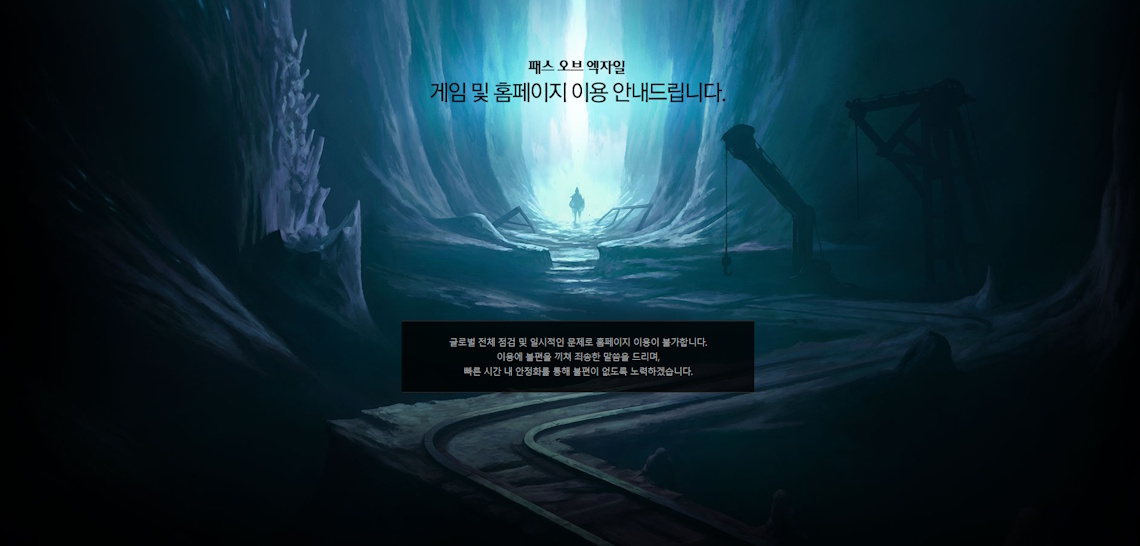
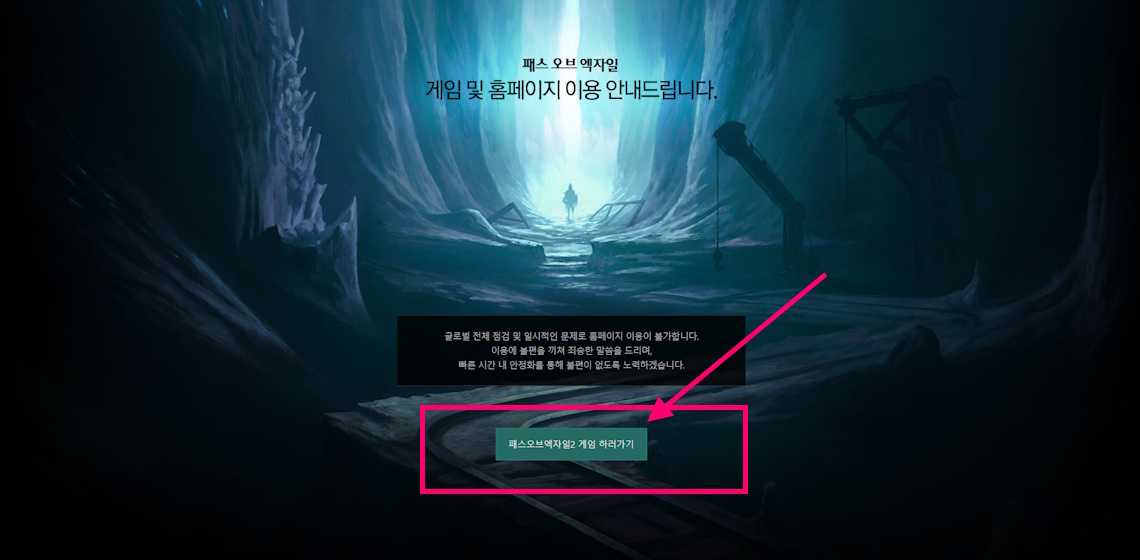
poe2 게임 시작 2
poe2 게임 시작 2

diff --git a/blog/help/search/index.html b/blog/help/search/index.html
@@ -2255,7 +2255,7 @@
 						"id": "\/blog\/game\/pc\/poe\/poe2-early-access-how-to-game-start\/",
 						"title": "[POE2] 패스 오브 엑자일2 얼리 액세스 게임 시작하는 방법: 홈페이지 점검-접속 불가 상태 ",
 						"url": "\/blog\/game\/pc\/poe\/poe2-early-access-how-to-game-start\/",
-						"content": "개요 link드디어 2024년 12월 07일에 [POE2] 패스 오브 엑자일2 (Path Of Exile 2) 얼리 액세스가 시작되었는데, 홈페이지에 접속해도 계속 점검 상태로만 나오고 게임에 접속할 수 없는데, 이때 게임을 실행하고 접속할 수 있는 방법을 소개해드리겠습니다.\n홈페이지 점검 중 - 접속 불가 link아래와 같이 홈페이지에 접속하면 점검 중으로 접속할 수 없다는 화면만 나옵니다.\n게임 접속 방법 link아래 페이지에 접속하면 아래와 같이 [게임 시작] 버튼을 확인할 수 있습니다.\nhttps:\/\/pathofexile2.game.daum.net\/start\/poe2\r게임 시작 link[게임 시작] 버튼을 클릭하면 추가 패치 파일을 다운로드 받고 게임에 접속할 수 있습니다.\nPC 사전 다운로드 URL link현재 사전 다운로드 문제 없이 잘됩니다.\n2024-12-06 AM 10:00 (KST = 한국 표준시) 2024-12-05 PM 05:00 (PST = 태평양 표준시) https:\/\/poe2.game.daum.net\/kr\/download\r참조: 패스 오브 엑자일2 (Path Of Exile 2) 영문 홈페이지\r기타 플랫폼 사전 다운로드 일정 link Xbox: 이미 사전 다운로드가 가능하고, 얼리 액세스 시작할 때 업데이트가 있을 가능성이 있습니다. PlayStation: Founder’s 팩이 얼리 액세스가 시작되기 24시간 전에 출시될 예정이며, 이 팩 중 하나를 구매하면 PS5에서 사전 다운로드가 가능합니다. 얼리 액세스 일정 link 2024-12-07 AM 04:00 (KST = 한국 표준시) 2024-12-06 AM 11:00 (PST = 태평양 표준시) 문서 업데이트 내역 link\r날짜 내용 2024-12-07 문서 최초 생성 "
+						"content": "개요 link드디어 2024년 12월 07일에 [POE2] 패스 오브 엑자일2 (Path Of Exile 2) 얼리 액세스가 시작되었는데, 홈페이지에 접속해도 계속 점검 상태로만 나오고 게임에 접속할 수 없는데, 이때 게임을 실행하고 접속할 수 있는 방법을 소개해드리겠습니다.\n홈페이지 점검 중 - 접속 불가 link아래와 같이 홈페이지에 접속하면 점검 중으로 접속할 수 없다는 화면이 나오는데 아래쪽에 게임 접속할 수 있는 페이지 링크 버튼이 생겼습니다. 버튼을 클릭하면 페이지로 이동합니다.\n게임 접속 방법 link버튼을 클릭해 페이지에 접속하면 아래와 같이 [게임 시작] 버튼을 확인할 수 있습니다.\nhttps:\/\/pathofexile2.game.daum.net\/start\/poe2\r게임 시작 link[게임 시작] 버튼을 클릭하면 추가 패치 파일을 다운로드 받고 게임에 접속할 수 있습니다.\n이때 패치를 다운로드 받다가 실패하는 경우가 있는데, 그때는 다시 게임 시작을 하면 다시 패치를 정상적으로 받을 수 있습니다.\nPC 사전 다운로드 URL link현재 사전 다운로드 문제 없이 잘됩니다.\n2024-12-06 AM 10:00 (KST = 한국 표준시) 2024-12-05 PM 05:00 (PST = 태평양 표준시) https:\/\/poe2.game.daum.net\/kr\/download\r참조: 패스 오브 엑자일2 (Path Of Exile 2) 영문 홈페이지\r기타 플랫폼 사전 다운로드 일정 link Xbox: 이미 사전 다운로드가 가능하고, 얼리 액세스 시작할 때 업데이트가 있을 가능성이 있습니다. PlayStation: Founder’s 팩이 얼리 액세스가 시작되기 24시간 전에 출시될 예정이며, 이 팩 중 하나를 구매하면 PS5에서 사전 다운로드가 가능합니다. 얼리 액세스 일정 link 2024-12-07 AM 04:00 (KST = 한국 표준시) 2024-12-06 AM 11:00 (PST = 태평양 표준시) 문서 업데이트 내역 link\r날짜 내용 2024-12-07 문서 최초 생성 "
 					},				
 					"\/blog\/game\/pc\/diablo\/item\/diablo4-day1-get-legendary-item-info\/": {
 						"id": "\/blog\/game\/pc\/diablo\/item\/diablo4-day1-get-legendary-item-info\/",

diff --git a/docs/help/search/index.html b/docs/help/search/index.html
@@ -1411,7 +1411,7 @@
 						"id": "\/blog\/game\/pc\/poe\/poe2-early-access-how-to-game-start\/",
 						"title": "[POE2] 패스 오브 엑자일2 얼리 액세스 게임 시작하는 방법: 홈페이지 점검-접속 불가 상태 ",
 						"url": "\/blog\/game\/pc\/poe\/poe2-early-access-how-to-game-start\/",
-						"content": "개요 link드디어 2024년 12월 07일에 [POE2] 패스 오브 엑자일2 (Path Of Exile 2) 얼리 액세스가 시작되었는데, 홈페이지에 접속해도 계속 점검 상태로만 나오고 게임에 접속할 수 없는데, 이때 게임을 실행하고 접속할 수 있는 방법을 소개해드리겠습니다.\n홈페이지 점검 중 - 접속 불가 link아래와 같이 홈페이지에 접속하면 점검 중으로 접속할 수 없다는 화면만 나옵니다.\n게임 접속 방법 link아래 페이지에 접속하면 아래와 같이 [게임 시작] 버튼을 확인할 수 있습니다.\nhttps:\/\/pathofexile2.game.daum.net\/start\/poe2\r게임 시작 link[게임 시작] 버튼을 클릭하면 추가 패치 파일을 다운로드 받고 게임에 접속할 수 있습니다.\nPC 사전 다운로드 URL link현재 사전 다운로드 문제 없이 잘됩니다.\n2024-12-06 AM 10:00 (KST = 한국 표준시) 2024-12-05 PM 05:00 (PST = 태평양 표준시) https:\/\/poe2.game.daum.net\/kr\/download\r참조: 패스 오브 엑자일2 (Path Of Exile 2) 영문 홈페이지\r기타 플랫폼 사전 다운로드 일정 link Xbox: 이미 사전 다운로드가 가능하고, 얼리 액세스 시작할 때 업데이트가 있을 가능성이 있습니다. PlayStation: Founder’s 팩이 얼리 액세스가 시작되기 24시간 전에 출시될 예정이며, 이 팩 중 하나를 구매하면 PS5에서 사전 다운로드가 가능합니다. 얼리 액세스 일정 link 2024-12-07 AM 04:00 (KST = 한국 표준시) 2024-12-06 AM 11:00 (PST = 태평양 표준시) 문서 업데이트 내역 link\r날짜 내용 2024-12-07 문서 최초 생성 "
+						"content": "개요 link드디어 2024년 12월 07일에 [POE2] 패스 오브 엑자일2 (Path Of Exile 2) 얼리 액세스가 시작되었는데, 홈페이지에 접속해도 계속 점검 상태로만 나오고 게임에 접속할 수 없는데, 이때 게임을 실행하고 접속할 수 있는 방법을 소개해드리겠습니다.\n홈페이지 점검 중 - 접속 불가 link아래와 같이 홈페이지에 접속하면 점검 중으로 접속할 수 없다는 화면이 나오는데 아래쪽에 게임 접속할 수 있는 페이지 링크 버튼이 생겼습니다. 버튼을 클릭하면 페이지로 이동합니다.\n게임 접속 방법 link버튼을 클릭해 페이지에 접속하면 아래와 같이 [게임 시작] 버튼을 확인할 수 있습니다.\nhttps:\/\/pathofexile2.game.daum.net\/start\/poe2\r게임 시작 link[게임 시작] 버튼을 클릭하면 추가 패치 파일을 다운로드 받고 게임에 접속할 수 있습니다.\n이때 패치를 다운로드 받다가 실패하는 경우가 있는데, 그때는 다시 게임 시작을 하면 다시 패치를 정상적으로 받을 수 있습니다.\nPC 사전 다운로드 URL link현재 사전 다운로드 문제 없이 잘됩니다.\n2024-12-06 AM 10:00 (KST = 한국 표준시) 2024-12-05 PM 05:00 (PST = 태평양 표준시) https:\/\/poe2.game.daum.net\/kr\/download\r참조: 패스 오브 엑자일2 (Path Of Exile 2) 영문 홈페이지\r기타 플랫폼 사전 다운로드 일정 link Xbox: 이미 사전 다운로드가 가능하고, 얼리 액세스 시작할 때 업데이트가 있을 가능성이 있습니다. PlayStation: Founder’s 팩이 얼리 액세스가 시작되기 24시간 전에 출시될 예정이며, 이 팩 중 하나를 구매하면 PS5에서 사전 다운로드가 가능합니다. 얼리 액세스 일정 link 2024-12-07 AM 04:00 (KST = 한국 표준시) 2024-12-06 AM 11:00 (PST = 태평양 표준시) 문서 업데이트 내역 link\r날짜 내용 2024-12-07 문서 최초 생성 "
 					},				
 					"\/blog\/game\/pc\/diablo\/item\/diablo4-day1-get-legendary-item-info\/": {
 						"id": "\/blog\/game\/pc\/diablo\/item\/diablo4-day1-get-legendary-item-info\/",

diff --git a/blog/game/pc/poe/poe2-early-access-how-to-game-start/index.html b/blog/game/pc/poe/poe2-early-access-how-to-game-start/index.html
@@ -1732,12 +1732,12 @@
     
     <div data-prismjs-copy="" data-prismjs-copy-success="" data-prismjs-copy-error="">
         <h2 id="개요">개요 <a href="#%ea%b0%9c%ec%9a%94" class="anchor" aria-hidden="true"><i class="material-icons align-middle">link</i></a></h2><p>드디어 2024년 12월 07일에 [POE2] <strong>패스 오브 엑자일2 (Path Of Exile 2)</strong> 얼리 액세스가 시작되었는데, 홈페이지에 접속해도 계속 점검 상태로만 나오고 게임에 접속할 수 없는데, 이때 게임을 실행하고 접속할 수 있는 방법을 소개해드리겠습니다.</p>
-<h2 id="홈페이지-점검-중---접속-불가">홈페이지 점검 중 - 접속 불가 <a href="#%ed%99%88%ed%8e%98%ec%9d%b4%ec%a7%80-%ec%a0%90%ea%b2%80-%ec%a4%91---%ec%a0%91%ec%86%8d-%eb%b6%88%ea%b0%80" class="anchor" aria-hidden="true"><i class="material-icons align-middle">link</i></a></h2><p>아래와 같이 홈페이지에 접속하면 점검 중으로 접속할 수 없다는 화면만 나옵니다.</p>
+<h2 id="홈페이지-점검-중---접속-불가">홈페이지 점검 중 - 접속 불가 <a href="#%ed%99%88%ed%8e%98%ec%9d%b4%ec%a7%80-%ec%a0%90%ea%b2%80-%ec%a4%91---%ec%a0%91%ec%86%8d-%eb%b6%88%ea%b0%80" class="anchor" aria-hidden="true"><i class="material-icons align-middle">link</i></a></h2><p>아래와 같이 홈페이지에 접속하면 점검 중으로 접속할 수 없다는 화면이 나오는데 아래쪽에 게임 접속할 수 있는 페이지 링크 버튼이 생겼습니다. 버튼을 클릭하면 페이지로 이동합니다.</p>
 <figure>
 <img src="/images/game/poe/poe2-early-access-game-start-01.jpg" width="1140" alt="[POE2] 패스 오브 엑자일2 얼리 액세스 게임 시작하는 방법: 홈페이지 점검-접속 불가 상태" class='docimage'>
 <figcaption></figcaption>
 </figure>
-<h2 id="게임-접속-방법">게임 접속 방법 <a href="#%ea%b2%8c%ec%9e%84-%ec%a0%91%ec%86%8d-%eb%b0%a9%eb%b2%95" class="anchor" aria-hidden="true"><i class="material-icons align-middle">link</i></a></h2><p>아래 페이지에 접속하면 아래와 같이 [<strong>게임 시작</strong>] 버튼을 확인할 수 있습니다.</p>
+<h2 id="게임-접속-방법">게임 접속 방법 <a href="#%ea%b2%8c%ec%9e%84-%ec%a0%91%ec%86%8d-%eb%b0%a9%eb%b2%95" class="anchor" aria-hidden="true"><i class="material-icons align-middle">link</i></a></h2><p>버튼을 클릭해 페이지에 접속하면 아래와 같이 [<strong>게임 시작</strong>] 버튼을 확인할 수 있습니다.</p>
 
 
 
@@ -1748,7 +1748,8 @@
 <img src="/images/game/poe/poe2-early-access-game-start-02.jpg" width="1140" alt="[POE2] 패스 오브 엑자일2 얼리 액세스 게임 시작하는 방법: 홈페이지 점검-접속 불가 상태" class='docimage'>
 <figcaption></figcaption>
 </figure>
-<h2 id="게임-시작">게임 시작 <a href="#%ea%b2%8c%ec%9e%84-%ec%8b%9c%ec%9e%91" class="anchor" aria-hidden="true"><i class="material-icons align-middle">link</i></a></h2><p>[<strong>게임 시작</strong>] 버튼을 클릭하면 추가 패치 파일을 다운로드 받고 게임에 접속할 수 있습니다.</p>
+<h2 id="게임-시작">게임 시작 <a href="#%ea%b2%8c%ec%9e%84-%ec%8b%9c%ec%9e%91" class="anchor" aria-hidden="true"><i class="material-icons align-middle">link</i></a></h2><p>[<strong>게임 시작</strong>] 버튼을 클릭하면 추가 패치 파일을 다운로드 받고 게임에 접속할 수 있습니다.<br>
+이때 패치를 다운로드 받다가 실패하는 경우가 있는데, 그때는 다시 게임 시작을 하면 다시 패치를 정상적으로 받을 수 있습니다.</p>
 <figure>
 <img src="/images/game/poe/poe2-early-access-game-start-03.jpg" width="1140" alt="[POE2] 패스 오브 엑자일2 얼리 액세스 게임 시작하는 방법: 홈페이지 점검-접속 불가 상태" class='docimage'>
 <figcaption></figcaption>

diff --git a/docs/markdown/hugo/install-guide/index.html b/docs/markdown/hugo/install-guide/index.html
@@ -937,20 +937,20 @@
 		
 
 		<a class="nav-link  active"
-		   id="bcdafeTab" data-bs-toggle="tab" data-bs-target="#bcdafe"
-		   type="button" role="tab" aria-controls="bcdafe" aria-selected="true">Winget</a>
+		   id="ebfacdTab" data-bs-toggle="tab" data-bs-target="#ebfacd"
+		   type="button" role="tab" aria-controls="ebfacd" aria-selected="true">Winget</a>
 
 		
 
 		<a class="nav-link "
-		   id="acbfedTab" data-bs-toggle="tab" data-bs-target="#acbfed"
-		   type="button" role="tab" aria-controls="acbfed" aria-selected="true">Chocolatey</a>
+		   id="befcdaTab" data-bs-toggle="tab" data-bs-target="#befcda"
+		   type="button" role="tab" aria-controls="befcda" aria-selected="true">Chocolatey</a>
 
 		
 
 		<a class="nav-link "
-		   id="cdbefaTab" data-bs-toggle="tab" data-bs-target="#cdbefa"
-		   type="button" role="tab" aria-controls="cdbefa" aria-selected="true">Scoop</a>
+		   id="dcfebaTab" data-bs-toggle="tab" data-bs-target="#dcfeba"
+		   type="button" role="tab" aria-controls="dcfeba" aria-selected="true">Scoop</a>
 
 		
 
@@ -966,7 +966,7 @@
 
 
 
-<div class="tab-pane fade show active" id="bcdafe" role="tabpanel" aria-labelledby="nav-1">
+<div class="tab-pane fade show active" id="ebfacd" role="tabpanel" aria-labelledby="nav-1">
 
 	
 
@@ -996,7 +996,7 @@
 
 
 
-<div class="tab-pane fade" id="acbfed" role="tabpanel" aria-labelledby="nav-1">
+<div class="tab-pane fade" id="befcda" role="tabpanel" aria-labelledby="nav-1">
 
 	
 
@@ -1026,7 +1026,7 @@
 
 
 
-<div class="tab-pane fade" id="cdbefa" role="tabpanel" aria-labelledby="nav-1">
+<div class="tab-pane fade" id="dcfeba" role="tabpanel" aria-labelledby="nav-1">
 
 	
 
